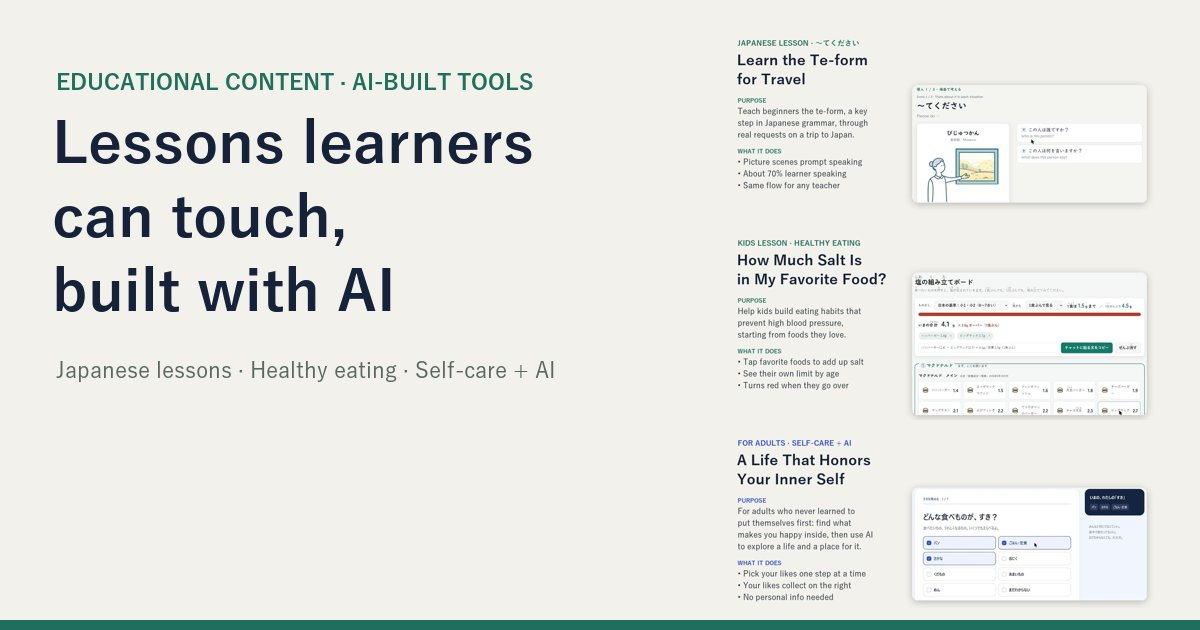
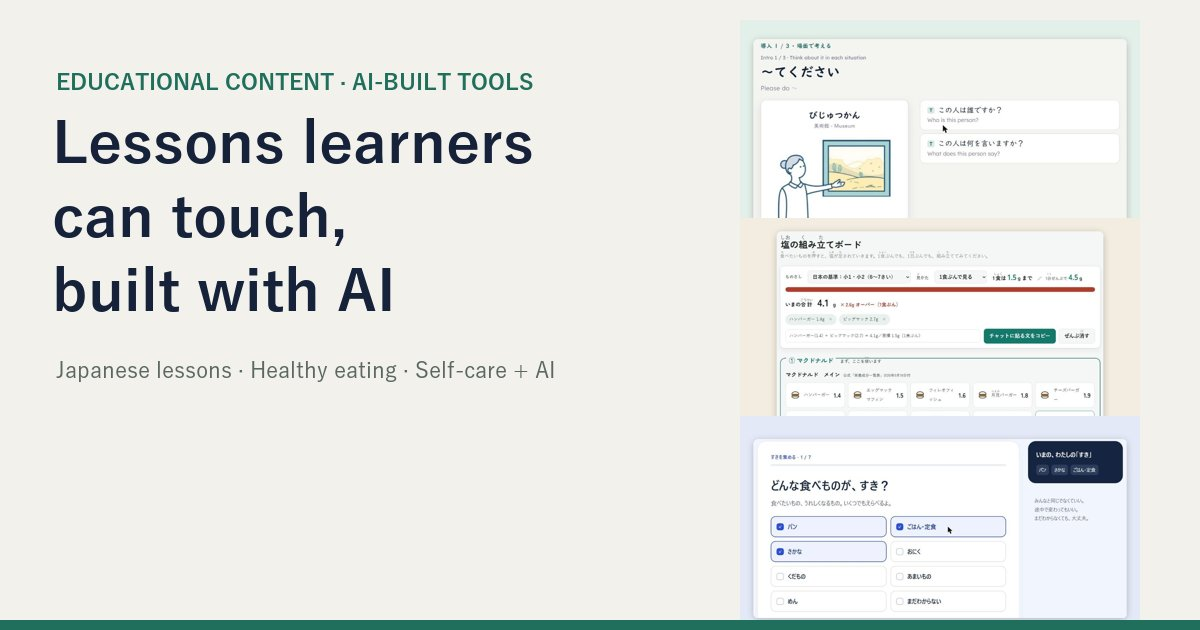
Problem-first cards, BL-style hero, plain screenshots, remove LinkedIn link

Changed region(s): [[0.6167, 0.3619, 0.9558, 0.6635], [0.6167, 0.6937, 0.9558, 0.9952], [0.6167, 0.0603, 0.9558, 0.3317]]

diff --git a/index.html b/index.html
@@ -13,16 +13,17 @@
 <meta name="twitter:card" content="summary_large_image">
 <style>
 :root{
+  --green-title:#1f6f5c;
   --bg:#f7f4ee; --surface:#ffffff; --ink:#1d2622; --muted:#5b6862; --line:#e2ddd2;
   --accent:#1f6f5c; --accent-soft:#e3f0eb; --warm:#b8711c;
 }
 @media (prefers-color-scheme: dark){
-  :root:not([data-theme="light"]){
+  :root:not([data-theme="light"]){ --green-title:#5cc3a6;
     --bg:#121614; --surface:#1b211e; --ink:#e9efec; --muted:#a2b0aa; --line:#2c3531;
     --accent:#5cc3a6; --accent-soft:#1f2f29; --warm:#e3a65a;
   }
 }
-:root[data-theme="dark"]{
+:root[data-theme="dark"]{ --green-title:#5cc3a6;
   --bg:#121614; --surface:#1b211e; --ink:#e9efec; --muted:#a2b0aa; --line:#2c3531;
   --accent:#5cc3a6; --accent-soft:#1f2f29; --warm:#e3a65a;
 }
@@ -45,6 +46,7 @@ h2{font-size:24px;margin:48px 0 18px}
 .card h3{font-size:21px;line-height:1.3;margin:0 0 6px}
 .tag{font-size:13px;color:var(--warm);font-weight:700;margin:0 0 12px}
 .card p{margin:0 0 12px}
+.card p.pain{font-weight:500}
 .card ul{margin:0 0 16px;padding-left:20px}
 .card li{margin-bottom:4px}
 .links{display:flex;flex-wrap:wrap;gap:10px}
@@ -62,34 +64,61 @@ footer a{color:var(--accent)}
   .principles{grid-template-columns:1fr}
   header{padding-top:36px}
 }
+
+/* BL-page look */
+h1,h2,h3{font-family:Georgia,"Times New Roman",serif;letter-spacing:-.01em}
+h1{font-size:clamp(34px,6vw,58px);line-height:1.08;margin-bottom:18px}
+.eyebrow{display:inline-flex;align-items:center;gap:10px;font-size:13px;font-weight:800;letter-spacing:.14em}
+.eyebrow::before{content:"";width:28px;height:1px;background:currentColor}
+.subtitle{display:block;font-family:"Inter","Segoe UI",system-ui,sans-serif;font-size:clamp(18px,2.4vw,24px);font-weight:700;line-height:1.35;color:var(--green-title);margin:0 0 18px}
+.btn{border-radius:999px;padding:11px 20px}
+header{padding-top:72px;padding-bottom:40px}
+
+
+/* BL hero (copied from OWL BL page) */
+html{overflow-x:clip}
+.bh{position:relative;min-height:650px;display:flex;align-items:center;overflow:hidden;background:#f7f4ee url("assets/owl-bookstore-hero.png") center/cover no-repeat;border-bottom:1px solid rgba(31,36,48,.15);color:#1f2430}
+.bh::after{content:"";position:absolute;inset:0;pointer-events:none;background:linear-gradient(90deg,rgba(247,244,238,.98) 0%,rgba(247,244,238,.88) 37%,rgba(247,244,238,.08) 61%,rgba(247,244,238,0) 100%)}
+.bh-shell{width:min(1180px,calc(100% - 40px));margin:0 auto;position:relative;z-index:1;padding:72px 0 82px}
+.bh-copy{width:min(610px,52%)}
+.bh-eyebrow{display:inline-flex;align-items:center;gap:10px;margin:0 0 22px;color:#1f5d3a;font-size:.83rem;font-weight:800;letter-spacing:.14em;text-transform:uppercase}
+.bh-eyebrow::before{content:"";width:34px;height:2px;background:#c96f4a}
+.bh h1{margin:0;max-width:700px;font-family:Georgia,"Times New Roman",serif;line-height:1.12;font-size:clamp(3.2rem,7vw,6.7rem);letter-spacing:-.045em;font-weight:600;color:#1f2430}
+.bh-detail{display:block;margin-top:16px;font-family:Inter,ui-sans-serif,sans-serif;font-size:clamp(1.16rem,2.2vw,1.72rem);line-height:1.35;font-weight:720;letter-spacing:-.02em;color:#1f5d3a}
+.bh-lede{max-width:590px;margin:26px 0 0;font-size:1.12rem;color:#424742}
+.bh-chips{display:flex;flex-wrap:wrap;gap:8px;margin:22px 0 0;padding:0;list-style:none}
+.bh-chips li{background:rgba(255,253,248,.85);border:1px solid rgba(31,36,48,.15);border-radius:999px;padding:5px 13px;font-size:14px}
+.bh-actions{display:flex;flex-wrap:wrap;gap:12px;margin-top:30px}
+.bh-button{display:inline-flex;min-height:48px;align-items:center;justify-content:center;gap:9px;padding:11px 20px;border:1px solid #1f2430;border-radius:999px;text-decoration:none;font-weight:760;color:#1f2430;background:rgba(247,244,238,.76)}
+.bh-button.primary{color:#fffdf8;background:#1f2430}
+.bh-button:focus-visible{outline:3px solid #c96f4a;outline-offset:2px}
+@media (max-width:900px){.bh{min-height:700px;background-position:63% center}.bh::after{background:linear-gradient(90deg,rgba(247,244,238,.98) 0%,rgba(247,244,238,.92) 54%,rgba(247,244,238,.22) 100%)}.bh-copy{width:min(620px,78%)}}
+@media (max-width:620px){.bh{min-height:740px;align-items:flex-end;background-position:66% center}.bh::after{background:linear-gradient(180deg,rgba(247,244,238,.12) 0%,rgba(247,244,238,.9) 42%,rgba(247,244,238,.99) 100%)}.bh-shell{width:min(100% - 28px,1180px);padding:170px 0 48px}.bh-copy{width:100%}.bh h1{font-size:clamp(2.6rem,13vw,4rem)}}
 </style>
 </head>
 <body>
+<section class="bh" aria-label="Introduction">
+  <div class="bh-shell"><div class="bh-copy">
+    <p class="bh-eyebrow">Educational content · AI-built tools</p>
+    <h1>Lessons learners can touch, built with AI<span class="bh-detail">Japanese lessons, healthy-eating lessons and a self-care workshop, designed by a former high school teacher</span></h1>
+    <p class="bh-lede">I design short, interactive lessons and build the web tools learners use with an AI coding assistant, always starting from what learners actually want.</p>
+    
+    <div class="bh-actions"><a class="bh-button primary" href="#work">See my work ↓</a></div>
+  </div></div>
+</section>
 <div class="wrap">
-  <header>
-    <p class="eyebrow">Educational content · AI-built tools</p>
-    <h1>Lessons learners can touch, built with AI</h1>
-    <p class="lead">I design short, interactive lessons for children, teens, adults and language learners, and build the web tools they use with an AI coding assistant. A former public high school teacher of food, health and daily life, I start from what learners actually want, not from rules.</p>
-    <ul class="facts">
-      <li>Former public high school teacher</li>
-      <li>Lesson design + AI-built web tools</li>
-      <li>Used in live online classes</li>
-    </ul>
-  </header>
 
   <main>
-    <h2>Selected work</h2>
+    <h2 id="work">Selected work</h2>
 
     <article class="card">
-      <img src="teform.jpg" alt="Lesson tool screen with a museum scene and speaking prompts">
+      <img src="teform.jpg?v=3" alt="Lesson tool screen with a museum scene and speaking prompts">
       <div class="body">
         <h3>Learn the Japanese Te-form for Travel</h3>
         <p class="tag">20 minutes + practice · English-speaking beginners</p>
-        <p>The te-form is a key step for every Japanese learner. This web lesson, built with an AI coding assistant, teaches it through real travel requests (〜てください), and any instructor can teach it the same way on one shared screen.</p>
+        <p class="pain"><b>Beginners freeze when they need to ask for something in Japanese.</b> This web lesson, built with an AI coding assistant, teaches the te-form (a key step in Japanese grammar) through real travel requests (〜てください). Any instructor can teach it the same way on one shared screen.</p>
         <ul>
           <li>Aims for about 70% learner speaking time.</li>
-          <li>Clear prompts and repeated practice with travel situations.</li>
-          <li>Flexible stopping points to fit the class time.</li>
           <li>Japanese checked for naturalness, beginner level and on-screen readability.</li>
         </ul>
         <div class="links">
@@ -99,14 +128,12 @@ footer a{color:var(--accent)}
     </article>
 
     <article class="card">
-      <img src="salt.jpg" alt="Salt tool screen showing a hamburger and Big Mac adding up to 4.1 g">
+      <img src="salt.jpg?v=3" alt="Salt tool screen showing a hamburger and Big Mac adding up to 4.1 g">
       <div class="body">
         <h3>How Much Salt Is in My Favorite Food?</h3>
         <p class="tag">Healthy eating for kids · 30-minute online lesson · elementary &amp; junior high</p>
-        <p>Goal: help kids build eating habits that prevent high blood pressure, by learning how much salt they can have in a day and how much is in the foods they love. It starts from a question kids really ask: “Why won’t adults let me eat fast food three times a day?”</p>
+        <p class="pain"><b>Kids love fast food, but “don’t eat that” never works.</b> Kids add up the salt in their favorite meal, compare it with the daily limit for their age, and learn habits that help prevent high blood pressure. It starts from a question kids really ask: “Why won’t adults let me eat fast food three times a day?”</p>
         <ul>
-          <li>Students pick their dream fast-food dinner and add up the salt in a web tool.</li>
-          <li>They compare it with the daily target for their own age group.</li>
           <li>A 30-second animation shows how extra salt affects blood vessels.</li>
           <li>The lesson ends with “helper foods” to add, not foods to give up.</li>
         </ul>
@@ -119,14 +146,12 @@ footer a{color:var(--accent)}
     </article>
 
     <article class="card">
-      <img src="town.jpg" alt="Tool screen: choosing favorite foods, with chosen likes collected on the right">
+      <img src="town.jpg?v=3" alt="Tool screen: choosing favorite foods, with chosen likes collected on the right">
       <div class="body">
         <h3>A Life That Honors Your Inner Self</h3>
         <p class="tag">Workshop for adults · self-care + AI literacy</p>
-        <p>For adults who never built the habit of taking care of themselves. Goal: explore a way of living that honors your inner self. Learners notice what makes them feel happy all day, turn it into clear conditions, and use AI to explore a life, and a town, built around it. First tried in a mixed-grade online class for students.</p>
+        <p class="pain"><b>Many adults never learned to take care of themselves.</b> Learners notice what makes them feel happy all day, turn it into clear conditions, and use AI to explore a life, and a town, built around it. First tried in a mixed-grade online class for students.</p>
         <ul>
-          <li>Starts with one adult’s real example: likes and dislikes, a talk with AI, and real town suggestions.</li>
-          <li>Learners collect their own likes at their own pace in a web tool.</li>
           <li>AI suggests three towns in Japan and three abroad; the group checks them together.</li>
           <li>No personal info, every answer optional, and AI ideas treated as “candidates, not answers.”</li>
         </ul>
@@ -147,8 +172,7 @@ footer a{color:var(--accent)}
 
   <footer>
     <p>Available for lesson design and AI-built learning tools. Contact me on
-      <a href="https://www.upwork.com/freelancers/~012c5ffbd1cf804052" target="_blank" rel="noopener">Upwork</a> or
-      <a href="https://www.linkedin.com/in/y-yuasa-12744a343/" target="_blank" rel="noopener">LinkedIn</a>.</p>
+      <a href="https://www.upwork.com/freelancers/~012c5ffbd1cf804052" target="_blank" rel="noopener">Upwork</a>.</p>
   </footer>
 </div>
 </body>
